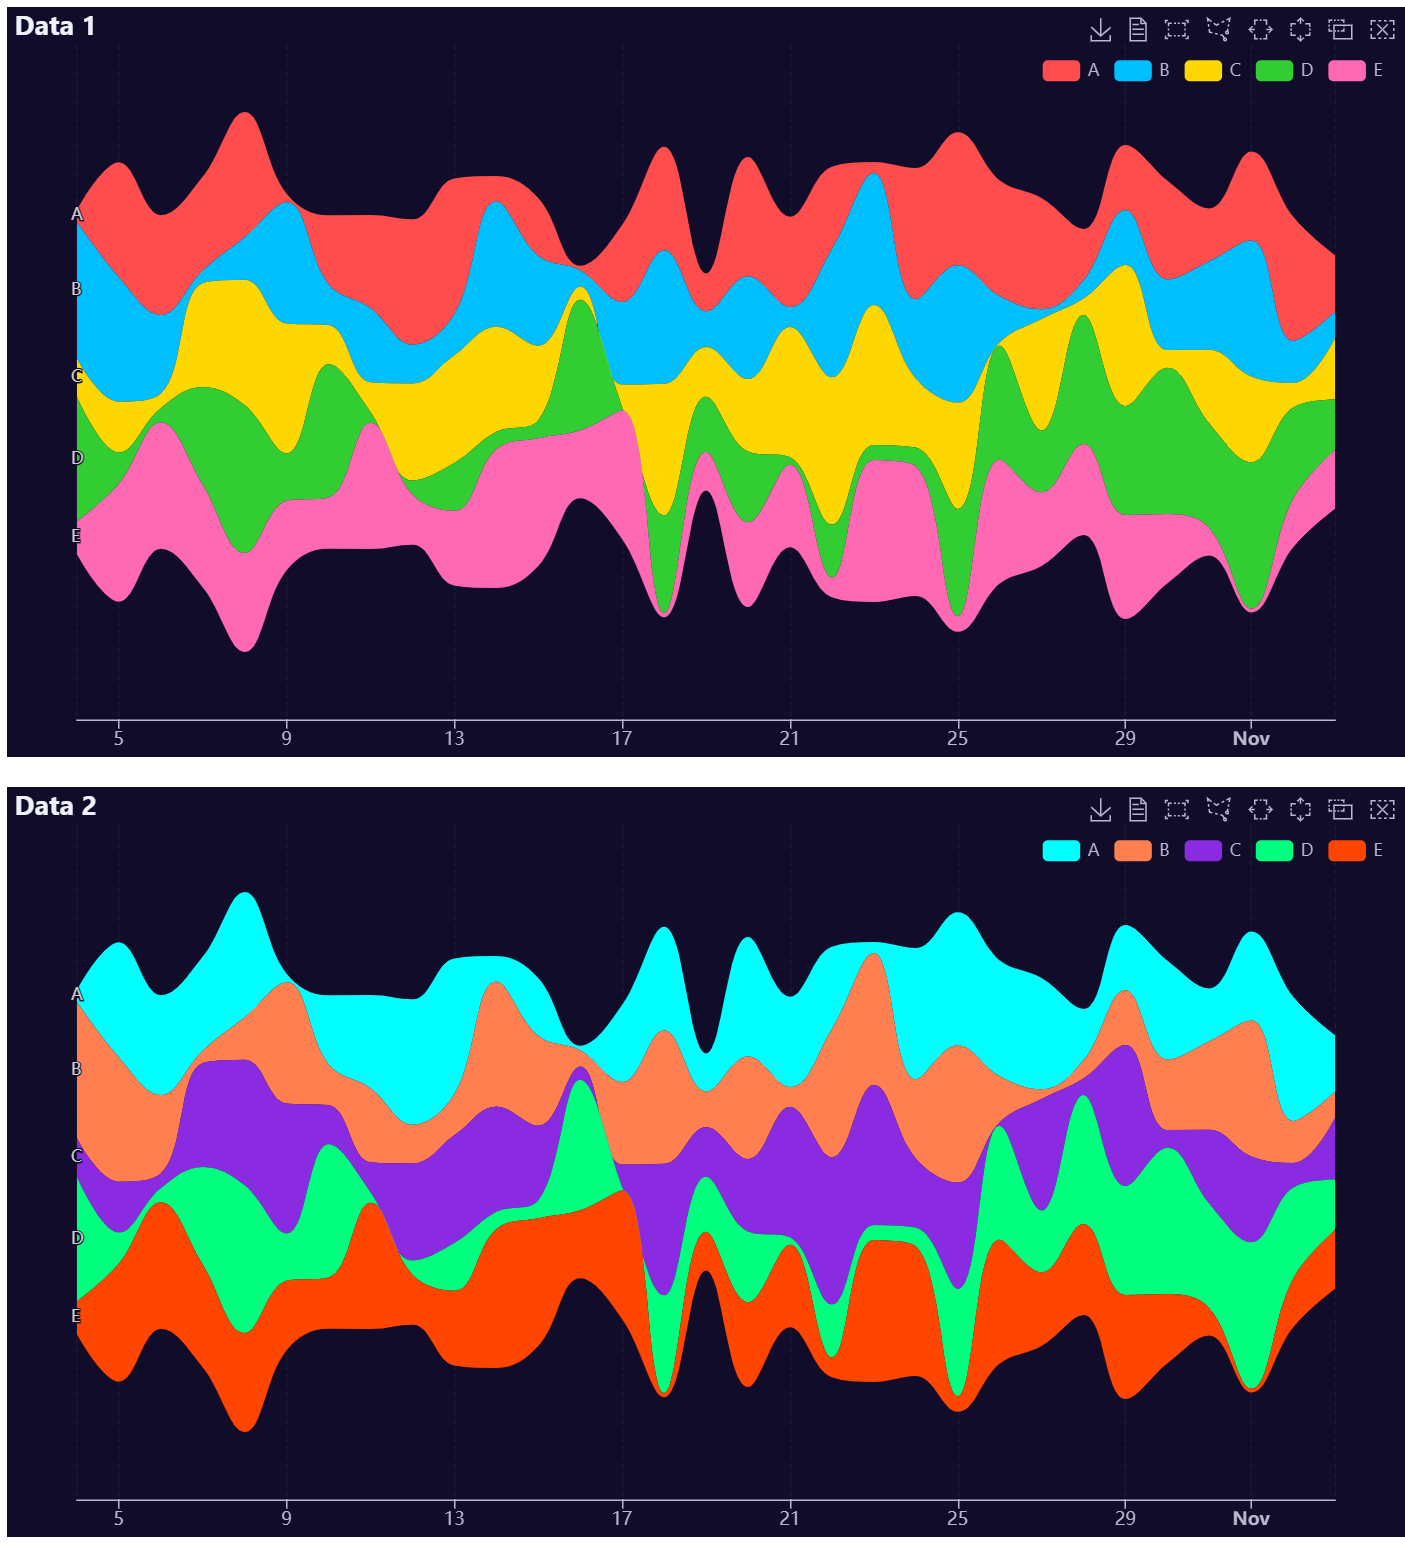
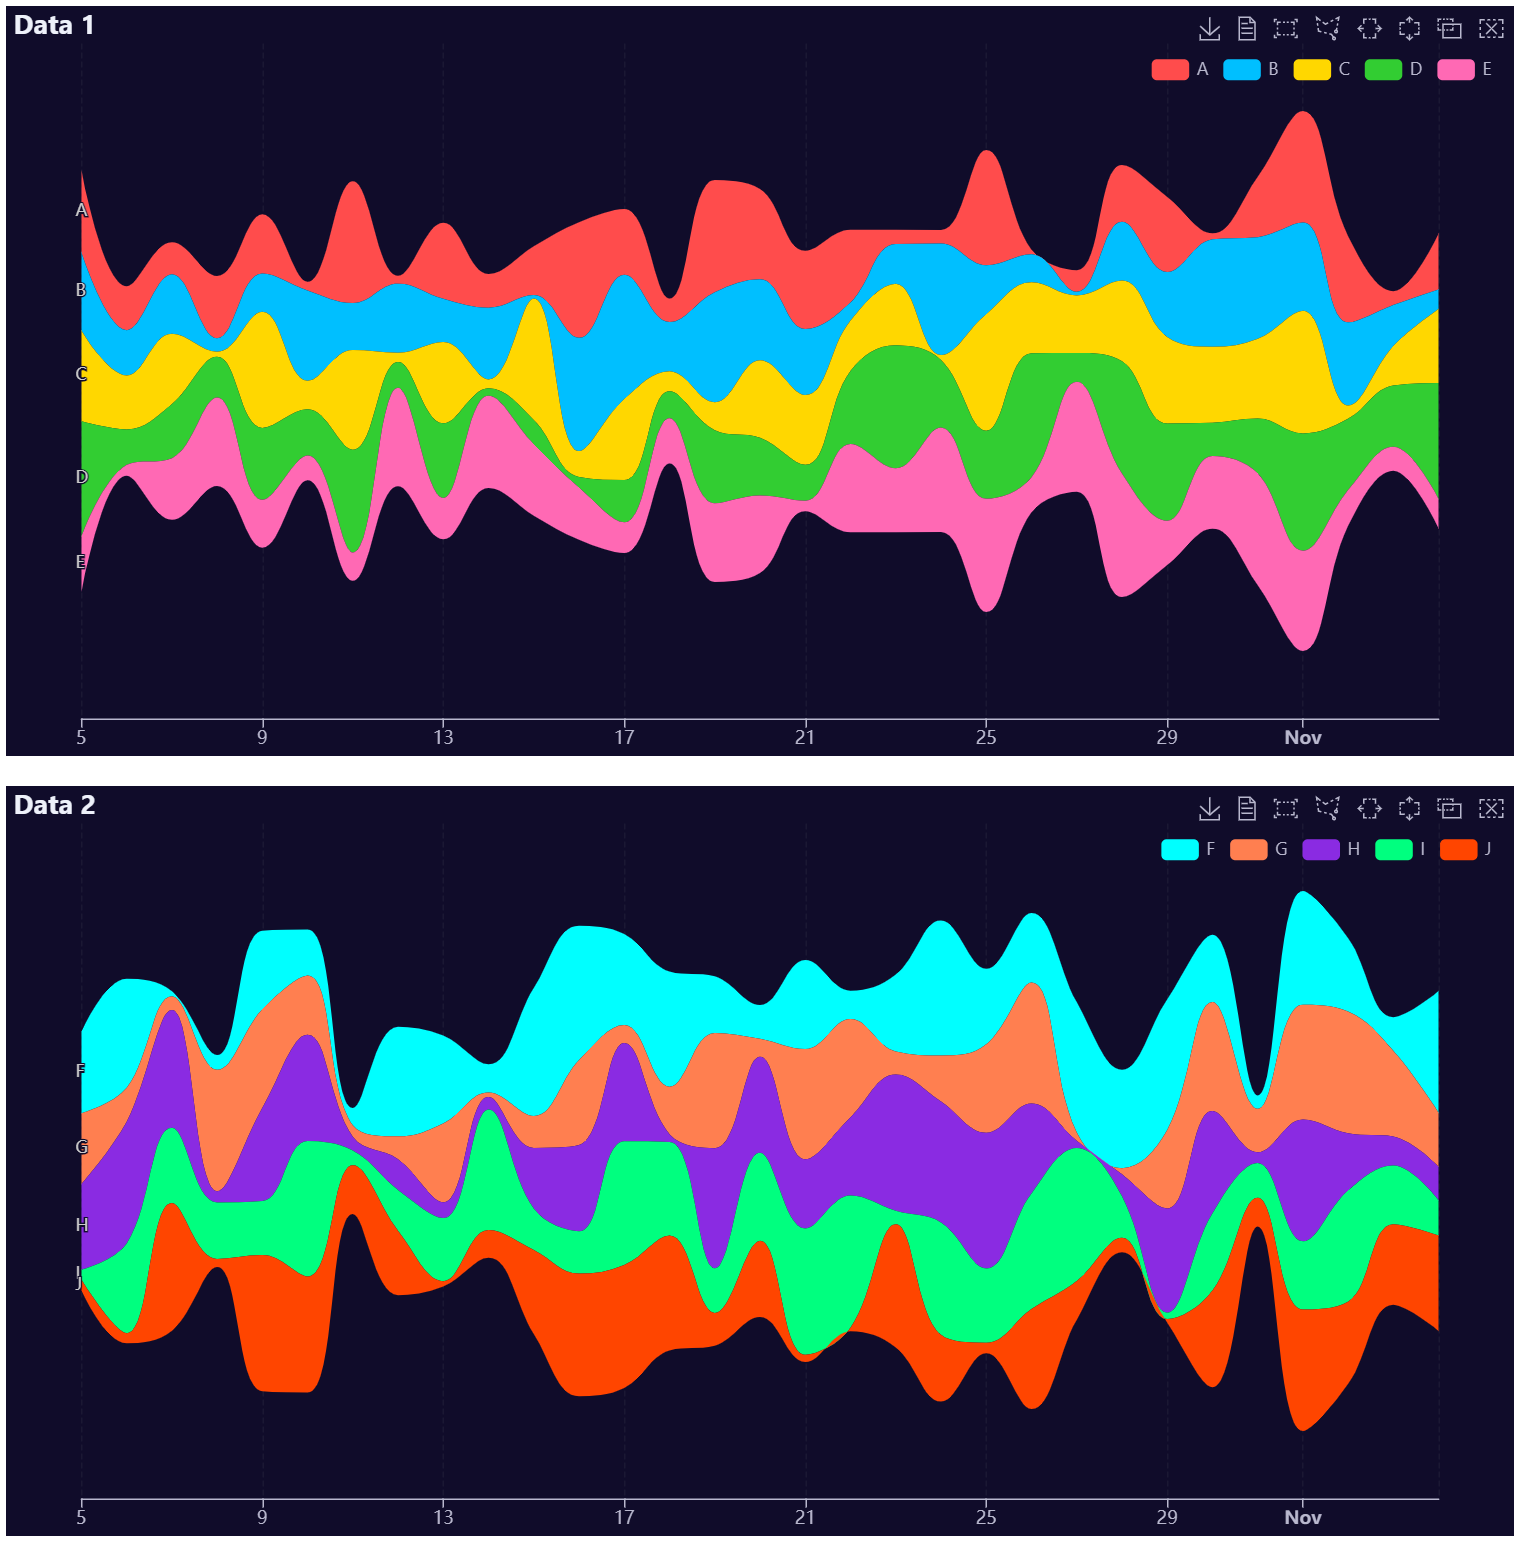
Update README

diff --git a/README.md b/README.md
@@ -1208,7 +1208,7 @@ p1 <- AutoPlots::River(
   )
 
 p2 <- AutoPlots::River(
-  dt = dt1,
+  dt = dt2,
   PreAgg = TRUE,
   XVar = "dates",
   YVar = "values",
